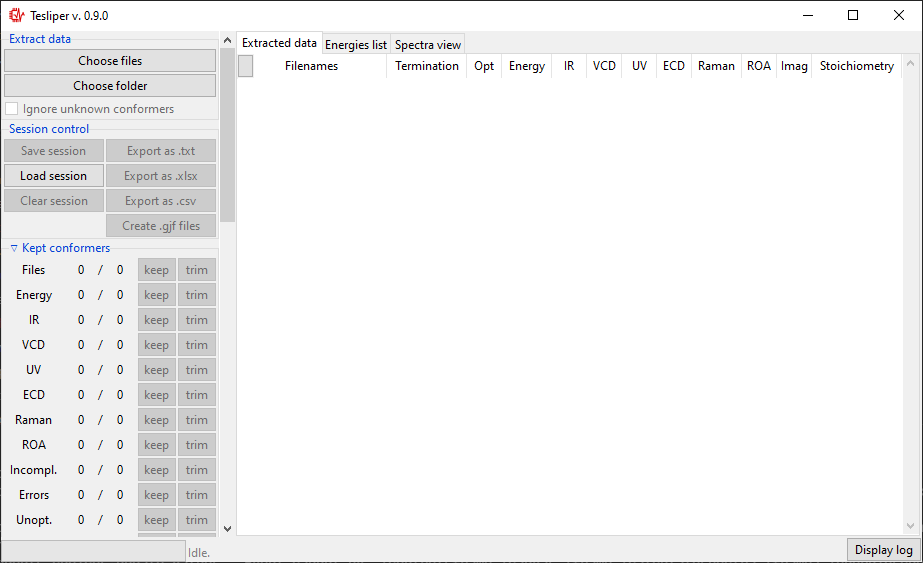
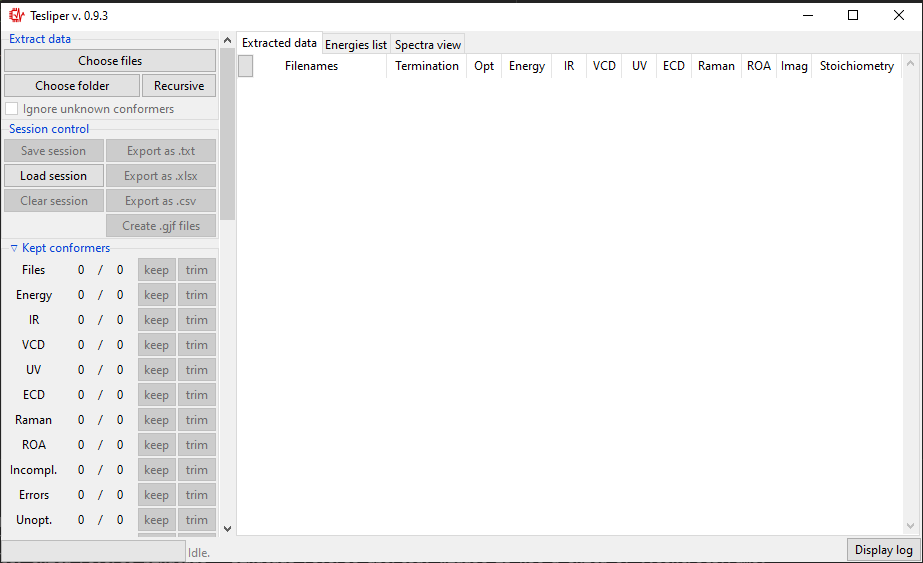
Updated GUI docs with recursive extraction button.

Changed region(s): [[0.0, 0.9964, 1.0, 1.0], [0.0, 0.0, 1.0, 0.0302], [0.0303, 0.1208, 0.2124, 0.1812]]

diff --git a/docs/source/gui.rst b/docs/source/gui.rst
@@ -44,10 +44,13 @@ Reading files
 To load data, use controls in the ``Extract data`` section. ``Choose files`` button
 allows you to select individual files to read using the popup dialog. ``Choose folder``
 button shows a similar dialog, but allowing you to select a single directory - all
-Gaussian output files in this directory (but not subdirectories) will be read.
+Gaussian output files in this directory (but not subdirectories) will be read. Finally,
+using the ``Recursive`` button will also read files form all subdirectories,
+recursively.
 
 .. image:: _static/screenshots/16426972102.png
 .. image:: _static/screenshots/16426972279.png
+.. image:: _static/screenshots/16426972380.png
 
 .. note::
 
